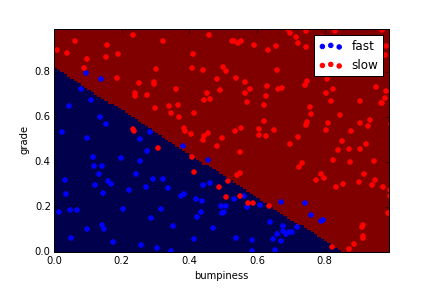
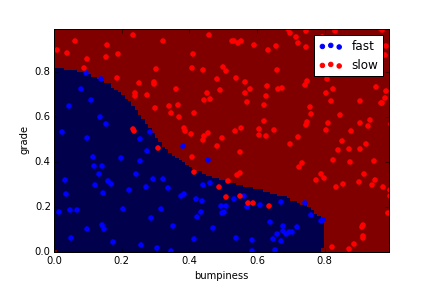
Change to rbf

Changed region(s): [[0.5417, 0.625, 0.7824, 0.875], [0.1204, 0.2188, 0.3611, 0.4375], [0.3611, 0.4688, 0.5417, 0.625]]

diff --git a/Practical/Lesson2_SVM.py b/Practical/Lesson2_SVM.py
@@ -14,7 +14,7 @@ features_train, labels_train, features_test, labels_test = makeTerrainData()
 ########################## SVM #################################
 ### we handle the import statement and SVC creation for you here
 from sklearn.svm import SVC
-clf = SVC(kernel="linear")
+clf = SVC(C=10000,kernel="rbf")
 
 
 #### now your job is to fit the classifier
